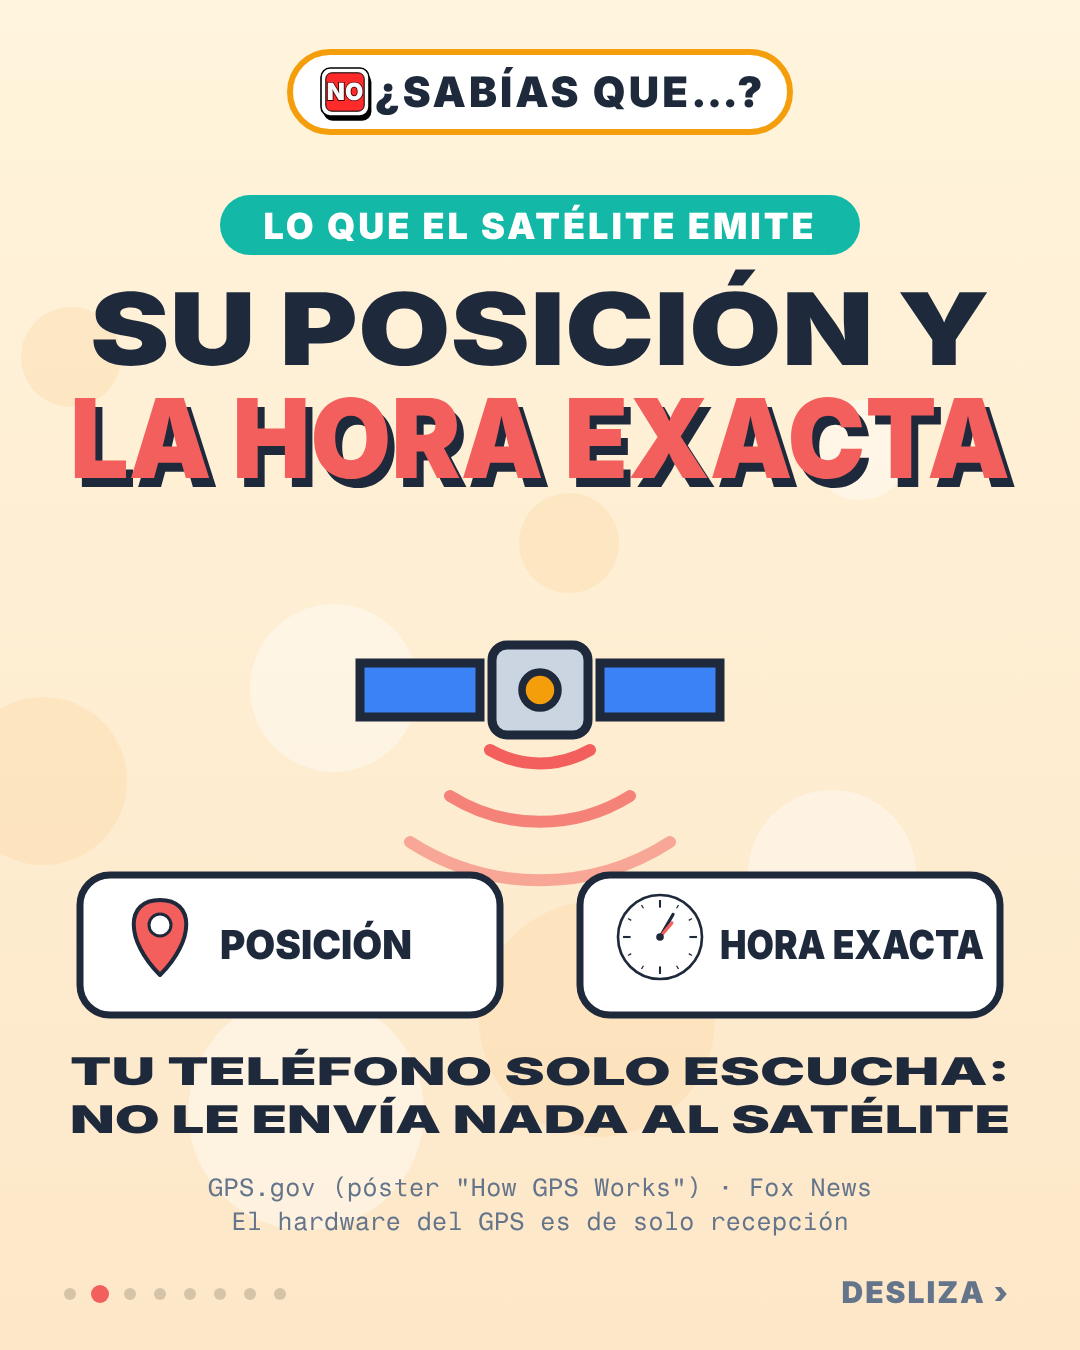
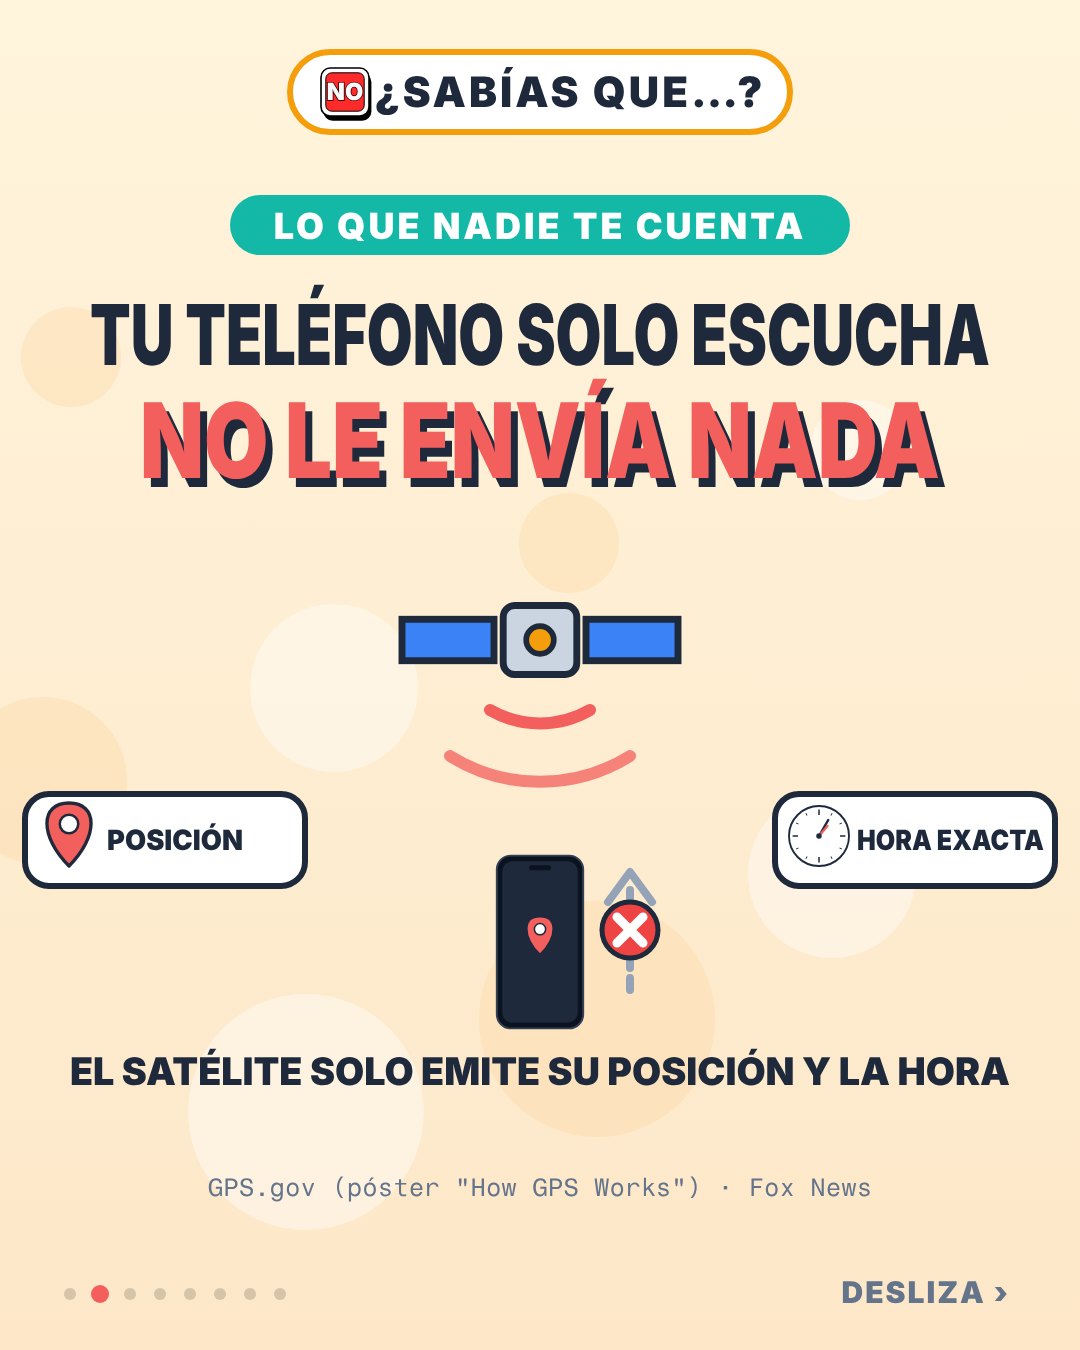
Carousel 03: put the twist big on slide 2, clearer slide 6 title, shorter small text, nuance in the recap
Claude-Session: https://claude.ai/code/session_01UvSALjBVpBVemw6p1kxsgc

diff --git a/what-if-studio/src/carrusel01/Carrusel03.tsx b/what-if-studio/src/carrusel01/Carrusel03.tsx
@@ -74,24 +74,36 @@ const S1: React.FC = () => (
 
 const S2: React.FC = () => (
   <Frame n={1}>
-    <Chip y={225} text="LO QUE EL SATÉLITE EMITE" w={640} fill={CU.teal} />
-    <Title a="SU POSICIÓN Y" b="LA HORA EXACTA" />
-    <Sat x={540} y={690} s={1.5} rot={0} />
-    <Arcs x={540} y={680} rot={0} n={3} />
+    <Chip y={225} text="LO QUE NADIE TE CUENTA" w={620} fill={CU.teal} />
+    <Txt x={540} y={365} size={84} w={900}>
+      TU TELÉFONO SOLO ESCUCHA
+    </Txt>
+    <Txt x={540} y={478} size={104} w={800} fill={CU.coral} shadow={INK}>
+      NO LE ENVÍA NADA
+    </Txt>
+    <Sat x={540} y={640} s={1.15} rot={0} />
+    <Arcs x={540} y={640} rot={0} n={2} />
     {[
-      { x: 290, label: 'POSICIÓN', icon: <Pin x={0} y={30} s={0.5} /> },
-      { x: 790, label: 'HORA EXACTA', icon: <Clock x={0} y={-8} r={42} /> },
+      { x: 165, label: 'POSICIÓN', icon: <Pin x={0} y={26} s={0.42} /> },
+      { x: 915, label: 'HORA EXACTA', icon: <Clock x={0} y={-4} r={30} /> },
     ].map((c) => (
-      <g key={c.label} transform={`translate(${c.x} 945)`}>
-        <rect x={-210} y={-70} width={420} height={140} rx={30} fill="#fff" stroke={INK} strokeWidth={7} />
-        <g transform="translate(-130 0)">{c.icon}</g>
-        <Txt x={-70} y={14} size={40} anchor="start" w={c.label.length * 24}>
+      <g key={c.label} transform={`translate(${c.x} 840)`}>
+        <rect x={-140} y={-46} width={280} height={92} rx={24} fill="#fff" stroke={INK} strokeWidth={6} />
+        <g transform="translate(-96 0)">{c.icon}</g>
+        <Txt x={-58} y={10} size={28} anchor="start" w={c.label.length * 17}>
           {c.label}
         </Txt>
       </g>
     ))}
-    <Desc a="TU TELÉFONO SOLO ESCUCHA:" b="NO LE ENVÍA NADA AL SATÉLITE" />
-    <Note lines={['GPS.gov (póster "How GPS Works") · Fox News', 'El hardware del GPS es de solo recepción']} />
+    <Phone x={540} y={942} s={0.32}>
+      <Pin x={0} y={40} s={0.8} />
+    </Phone>
+    <path d="M 630 990 L 630 880" stroke="#94A3B8" strokeWidth={8} strokeDasharray="12 10" strokeLinecap="round" />
+    <path d="M 608 902 L 630 872 L 652 902" stroke="#94A3B8" strokeWidth={8} fill="none" strokeLinecap="round" strokeLinejoin="round" />
+    <circle cx={630} cy={930} r={28} fill="#EF4444" stroke={INK} strokeWidth={5} />
+    <path d="M 617 917 L 643 943 M 643 917 L 617 943" stroke="#fff" strokeWidth={9} strokeLinecap="round" />
+    <Desc a="EL SATÉLITE SOLO EMITE SU POSICIÓN Y LA HORA" />
+    <Note lines={['GPS.gov (póster "How GPS Works") · Fox News']} />
   </Frame>
 );
 
@@ -165,15 +177,20 @@ const S5: React.FC = () => (
         1 NANOSEGUNDO DE ERROR
       </text>
     </g>
-    <Desc a="POR ESO LOS SATÉLITES LLEVAN RELOJES ATÓMICOS" b="Y EL TELÉFONO SE AJUSTA CON SU SEÑAL" />
-    <Note lines={['GIM International · ESA ("What about errors")', '1 nanosegundo = 1 milmillonésima de segundo']} />
+    <Desc a="POR ESO LOS SATÉLITES LLEVAN RELOJES ATÓMICOS" />
+    <Note lines={['GIM International · ESA', '1 nanosegundo = 1 milmillonésima de segundo']} />
   </Frame>
 );
 
 const S6: React.FC = () => (
   <Frame n={5}>
     <Chip y={225} text="Y EINSTEIN LO COMPLICA" w={640} fill={CU.sun} color={INK} />
-    <Title a="UN RELOJ DESVIADO" b="SON KILÓMETROS" wa={940} />
+    <Txt x={540} y={365} size={100} w={900}>
+      UN RELOJ DESVIADO
+    </Txt>
+    <Txt x={540} y={478} size={88} w={900} fill={CU.coral} shadow={INK}>
+      = KILÓMETROS DE ERROR
+    </Txt>
     <g transform="translate(540 765)">
       <rect x={-400} y={-180} width={800} height={360} rx={36} fill="#DCFCE7" stroke={INK} strokeWidth={9} />
       <path d="M -400 -40 L 400 -90 M -150 -180 L -110 180 M 150 -180 L 200 180 M -400 70 L 400 30" stroke="#fff" strokeWidth={14} />
@@ -189,8 +206,8 @@ const S6: React.FC = () => (
         38 MILLONÉSIMAS DE SEGUNDO ≈ 11 KM
       </text>
     </g>
-    <Desc a="SIN CORREGIR, LOS RELOJES DE LOS SATÉLITES" b="ADELANTARÍAN ESO CADA DÍA: SE AJUSTAN A PROPÓSITO" />
-    <Note lines={['Ohio State University · Penn State (relatividad del GPS)', '11 km = 38 microsegundos × velocidad de la luz (cálculo)']} />
+    <Desc a="ESE ERROR SE CORRIGE A PROPÓSITO CADA DÍA" />
+    <Note lines={['Ohio State · Penn State', '11 km = 38 microsegundos × velocidad de la luz (cálculo)']} />
   </Frame>
 );
 
@@ -233,14 +250,14 @@ const S8: React.FC = () => (
     </Txt>
     {[
       { y: 540, t: 'EL SATÉLITE SOLO EMITE', c: CU.teal },
-      { y: 660, t: 'TU TELÉFONO MIDE EL RETRASO', c: CU.sun },
-      { y: 780, t: 'LA POSICIÓN SALE DEL TIEMPO', c: CU.coral },
+      { y: 660, t: 'TU TELÉFONO CALCULA CON EL TIEMPO', c: CU.sun },
+      { y: 780, t: 'EL GPS NO TE VIGILA, TUS APPS PUEDEN', c: CU.coral },
     ].map((r) => (
       <g key={r.t} transform={`translate(0 ${r.y})`}>
         <rect x={70} y={-48} width={940} height={96} rx={28} fill="#1E293B" stroke="#334155" strokeWidth={5} />
         <circle cx={135} cy={0} r={26} fill={r.c} stroke="#fff" strokeWidth={5} />
         <path d="M 122 2 L 132 13 L 150 -10" stroke="#fff" strokeWidth={8} fill="none" strokeLinecap="round" strokeLinejoin="round" />
-        <Txt x={190} y={16} size={42} fill="#fff" anchor="start" w={r.t.length * 25}>
+        <Txt x={190} y={16} size={42} fill="#fff" anchor="start" w={Math.min(r.t.length * 25, 800)}>
           {r.t}
         </Txt>
       </g>

diff --git a/canal/no-presiones/CARRUSEL-03-GPS.md b/canal/no-presiones/CARRUSEL-03-GPS.md
@@ -9,6 +9,12 @@ El satélite solo emite su posición y la hora exacta. Tu teléfono mide cuánto
 Desliza: la fórmula, por qué hacen falta 4 señales y qué pasa si el reloj se desvía.
 Fallos y curiosidades tecnológicas en menos de 1 minuto. Sigue la página.
 
+## Ajustes tras la revisión
+- Lámina 2: el giro ("Tu teléfono solo escucha / no le envía nada") pasa a título grande; posición y hora exacta quedan como detalle pequeño.
+- Lámina 6: título "Un reloj desviado = kilómetros de error".
+- Láminas 5 y 6: texto pequeño acortado (una línea cada una) para que la escalada ns → cm y µs → km se lea rápido.
+- Lámina 8: el recap incluye el matiz: "El GPS no te vigila, tus apps pueden".
+
 ## Cambios respecto a la idea original
 - Se añadió una lámina de matiz (7): el GPS en sí solo recibe, pero las apps con permiso de ubicación sí pueden compartirla. Evita el mensaje "nadie te vigila" sin más.
 - El cierre "¿Creías que te estaban viendo? 👇" se cambió por "Tu mapa no te ve. Calcula." para no pedir comentarios.
